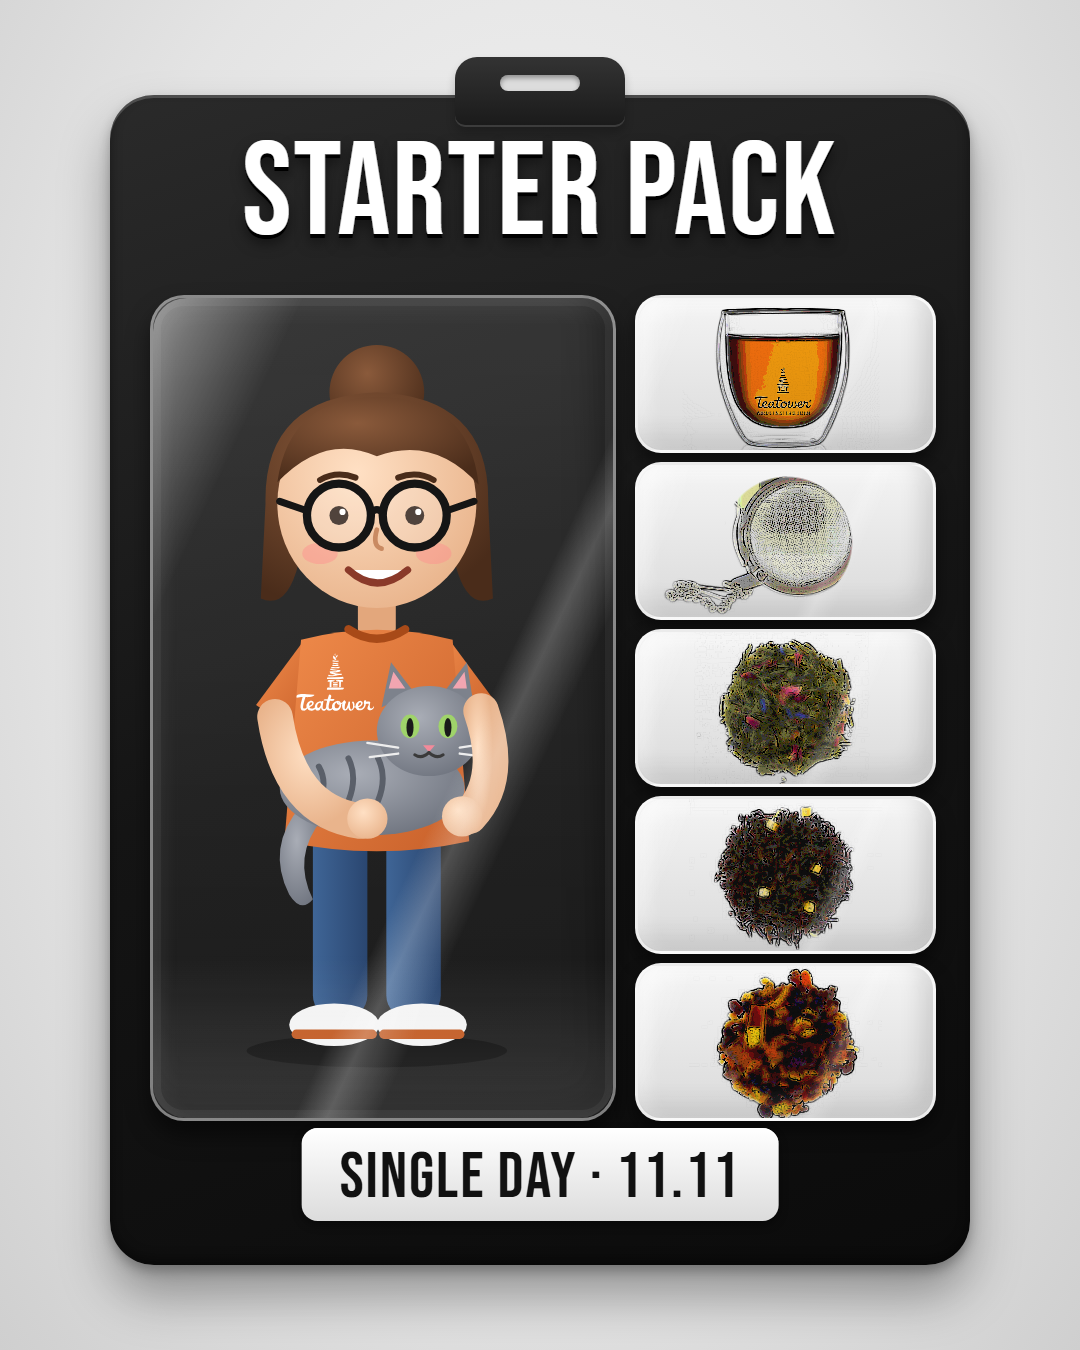
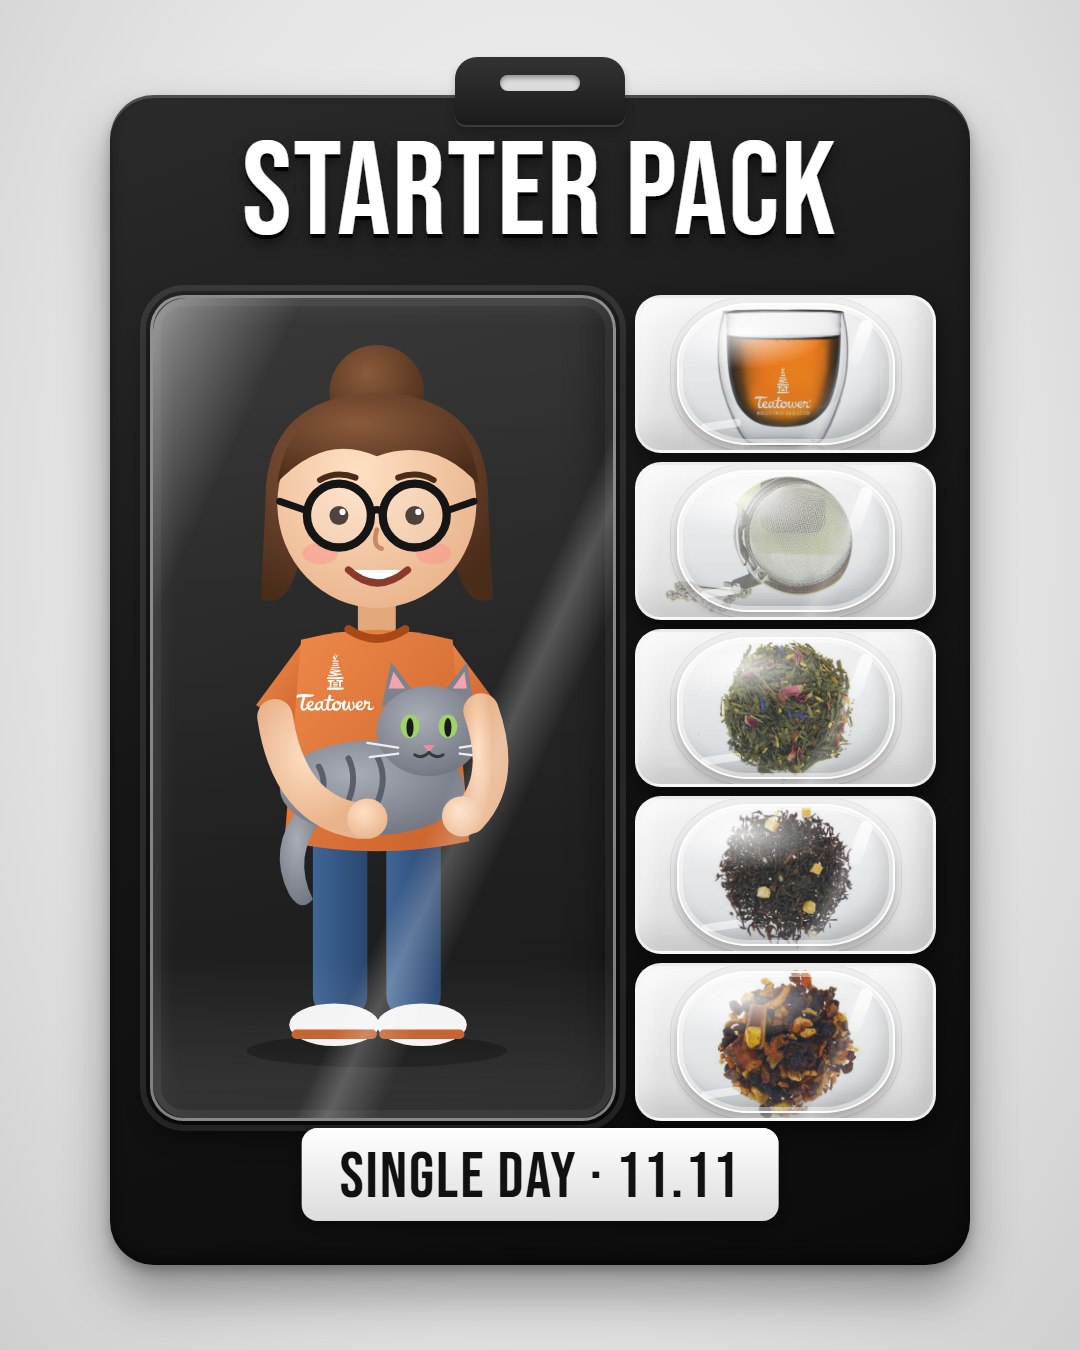
Marketing : starter pack Single Day v7 — vraies photos sous coques blister scellées façon jouet

diff --git a/marketing/single_day_2026/starter_pack_single_day.html b/marketing/single_day_2026/starter_pack_single_day.html
@@ -45,9 +45,26 @@
   .side{left:525px;width:295px;height:152px;border-radius:26px;
     background:linear-gradient(180deg,#f4f4f4,#dadada);
     box-shadow:0 10px 18px rgba(0,0,0,.5),inset -10px -12px 24px rgba(0,0,0,.14),inset 8px 8px 18px rgba(255,255,255,.6)}
-  .side img,.side .crop{position:absolute;mix-blend-mode:multiply;filter:url(#toon)}
+  .side img,.side .crop{position:absolute;mix-blend-mode:multiply;filter:saturate(1.1)}
   .crop{overflow:hidden;left:0;top:0;width:295px;height:152px}
   .crop img{filter:none;mix-blend-mode:normal}
+
+
+  /* coque plastique thermoformée autour de chaque produit (blister jouet) */
+  .dome{position:absolute;left:50%;top:50%;width:214px;height:138px;transform:translate(-50%,-50%);
+    border-radius:72px/62px;border:2px solid rgba(255,255,255,.95);
+    background:
+      radial-gradient(ellipse 55% 38% at 30% 20%,rgba(255,255,255,.80),rgba(255,255,255,0) 70%),
+      radial-gradient(ellipse 70% 40% at 50% 115%,rgba(0,0,0,.10),rgba(0,0,0,0) 70%),
+      linear-gradient(180deg,rgba(255,255,255,.10),rgba(190,215,235,.14));
+    box-shadow:0 7px 10px rgba(0,0,0,.25),0 0 0 6px rgba(255,255,255,.45),0 0 0 7px rgba(0,0,0,.08),
+      inset 0 0 0 4px rgba(255,255,255,.45),inset -10px -12px 18px rgba(0,0,0,.14)}
+  .dome::after{content:"";position:absolute;right:26px;top:14px;width:13px;height:46px;border-radius:8px;
+    background:linear-gradient(180deg,rgba(255,255,255,.9),rgba(255,255,255,.2));transform:rotate(20deg)}
+  .dome::before{content:"";position:absolute;left:22px;bottom:14px;width:40px;height:8px;border-radius:6px;
+    background:rgba(255,255,255,.55);transform:rotate(-8deg)}
+  /* rebord thermoscellé sur le grand compartiment */
+  .main{outline:6px solid rgba(255,255,255,.10);outline-offset:4px}
 
   .label{position:absolute;left:50%;bottom:44px;transform:translateX(-50%);
     padding:8px 38px 2px;border-radius:16px;font-size:64px;color:#111;letter-spacing:2px;white-space:nowrap;
@@ -56,24 +73,6 @@
 </style>
 </head>
 <body>
-<svg width="0" height="0" style="position:absolute">
-  <filter id="toon" x="0" y="0" width="1" height="1" color-interpolation-filters="sRGB">
-    <feColorMatrix in="SourceGraphic" type="saturate" values="1.25" result="sat"/>
-    <feComponentTransfer in="sat" result="post">
-      <feFuncR type="discrete" tableValues=".06 .26 .46 .64 .8 .92 1"/>
-      <feFuncG type="discrete" tableValues=".06 .26 .46 .64 .8 .92 1"/>
-      <feFuncB type="discrete" tableValues=".06 .26 .46 .64 .8 .92 1"/>
-    </feComponentTransfer>
-    <feColorMatrix in="SourceGraphic" type="matrix" values=".3 .59 .11 0 0  .3 .59 .11 0 0  .3 .59 .11 0 0  0 0 0 1 0" result="gray"/>
-    <feConvolveMatrix in="gray" order="3" kernelMatrix="-1 -1 -1 -1 8 -1 -1 -1 -1" preserveAlpha="true" edgeMode="duplicate" result="edge"/>
-    <feComponentTransfer in="edge" result="lines">
-      <feFuncR type="linear" slope="-1.3" intercept="1"/>
-      <feFuncG type="linear" slope="-1.3" intercept="1"/>
-      <feFuncB type="linear" slope="-1.3" intercept="1"/>
-    </feComponentTransfer>
-    <feBlend in="post" in2="lines" mode="multiply"/>
-  </filter>
-</svg>
 <div class="scene">
   <div class="card">
     <div class="tab"></div>
@@ -164,6 +163,7 @@
     <!-- A0304 verre double paroi -->
     <div class="bub side" style="top:200px">
       <img src="img/A0304.jpg" style="width:198px;left:44px;top:-25px">
+      <div class="dome"></div>
       <div class="gloss"></div>
     </div>
 
@@ -172,24 +172,28 @@
       <div class="crop" style="-webkit-mask:radial-gradient(circle 66px at 149px 77px,#000 97%,transparent 100%),linear-gradient(#000,#000) 0 92px/112px 60px no-repeat;mask:radial-gradient(circle 66px at 149px 77px,#000 97%,transparent 100%),linear-gradient(#000,#000) 0 92px/112px 60px no-repeat">
         <img src="img/A0271.jpg" style="width:422px;left:-84px;top:-233px">
       </div>
+      <div class="dome"></div>
       <div class="gloss"></div>
     </div>
 
     <!-- V0617 Liberté -->
     <div class="bub side" style="top:534px">
       <img src="img/V0617.jpg" style="width:193px;left:51px;top:-18px">
+      <div class="dome"></div>
       <div class="gloss"></div>
     </div>
 
     <!-- V0839 Caramel beurre salé -->
     <div class="bub side" style="top:701px">
       <img src="img/V0839.jpg" style="width:193px;left:51px;top:-18px">
+      <div class="dome"></div>
       <div class="gloss"></div>
     </div>
 
     <!-- V0841 Lacquemant liégeois -->
     <div class="bub side" style="top:868px">
       <img src="img/V0841.jpg" style="width:193px;left:51px;top:-18px">
+      <div class="dome"></div>
       <div class="gloss"></div>
     </div>
 

diff --git a/marketing/single_day_2026/_patch_v7.py b/marketing/single_day_2026/_patch_v7.py
@@ -1,0 +1,39 @@
+"""Patch v7 : vraies photos (sans filtre cartoon) sous coque plastique scellée façon jouet."""
+import os, re
+p = os.path.join(os.path.dirname(os.path.abspath(__file__)), "starter_pack_single_day.html")
+s = open(p, encoding="utf-8").read()
+
+# 1) retour aux vraies images
+s = s.replace("mix-blend-mode:multiply;filter:url(#toon)}", "mix-blend-mode:multiply;filter:saturate(1.1)}")
+s = re.sub(r'<svg width="0" height="0" style="position:absolute">\s*<filter id="toon".*?</svg>\n', "", s, flags=re.S)
+
+# 2) coque plastique bombée + rebord scellé
+css = """
+  /* coque plastique thermoformée autour de chaque produit (blister jouet) */
+  .dome{position:absolute;left:50%;top:50%;width:214px;height:138px;transform:translate(-50%,-50%);
+    border-radius:72px/62px;border:2px solid rgba(255,255,255,.95);
+    background:
+      radial-gradient(ellipse 55% 38% at 30% 20%,rgba(255,255,255,.80),rgba(255,255,255,0) 70%),
+      radial-gradient(ellipse 70% 40% at 50% 115%,rgba(0,0,0,.10),rgba(0,0,0,0) 70%),
+      linear-gradient(180deg,rgba(255,255,255,.10),rgba(190,215,235,.14));
+    box-shadow:0 7px 10px rgba(0,0,0,.25),0 0 0 6px rgba(255,255,255,.45),0 0 0 7px rgba(0,0,0,.08),
+      inset 0 0 0 4px rgba(255,255,255,.45),inset -10px -12px 18px rgba(0,0,0,.14)}
+  .dome::after{content:"";position:absolute;right:26px;top:14px;width:13px;height:46px;border-radius:8px;
+    background:linear-gradient(180deg,rgba(255,255,255,.9),rgba(255,255,255,.2));transform:rotate(20deg)}
+  .dome::before{content:"";position:absolute;left:22px;bottom:14px;width:40px;height:8px;border-radius:6px;
+    background:rgba(255,255,255,.55);transform:rotate(-8deg)}
+  /* rebord thermoscellé sur le grand compartiment */
+  .main{outline:6px solid rgba(255,255,255,.10);outline-offset:4px}
+"""
+if ".dome{" not in s:
+    s = s.replace("  .label{", css + "\n  .label{", 1)
+
+# 3) insérer une coque dans chaque petit compartiment (avant le reflet)
+parts = s.split('<div class="bub side"')
+for i in range(1, len(parts)):
+    if '<div class="dome"></div>' not in parts[i].split('</div>\n\n')[0]:
+        parts[i] = parts[i].replace('<div class="gloss"></div>', '<div class="dome"></div>\n      <div class="gloss"></div>', 1)
+s = '<div class="bub side"'.join(parts)
+
+open(p, "w", encoding="utf-8").write(s)
+print("toon restant:", "toon" in s, "| domes:", s.count('<div class="dome"></div>'))
